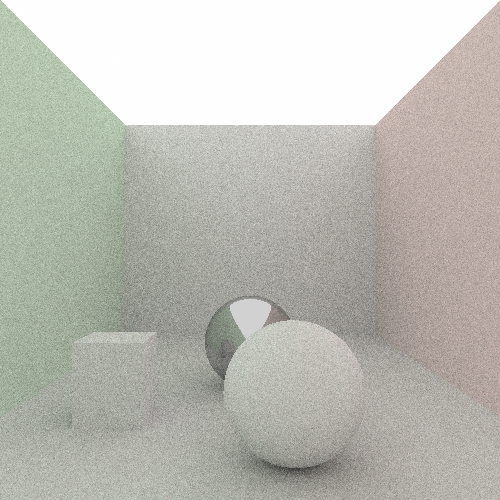
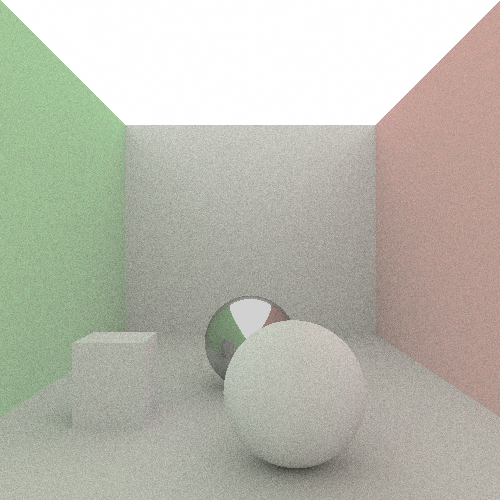
fix: Counteract whitebleeding of colors

diff --git a/material/diffuse.go b/material/diffuse.go
@@ -1,19 +1,20 @@
 package material
 
-import (
-	"github.com/wahtye/go-pathtracer/geometry"
-)
+import "github.com/wahtye/go-pathtracer/geometry"
 
 type DiffuseMaterial struct {
+	color       *geometry.Vector
 	reflectance float64
 }
 
-func NewDiffuseMaterial(reflectance float64) *DiffuseMaterial {
-	return &DiffuseMaterial{reflectance}
+func NewDiffuseMaterial(color *geometry.Vector, reflectance float64) *DiffuseMaterial {
+	return &DiffuseMaterial{color, reflectance}
 }
 
 func (mat *DiffuseMaterial) Reflect(ray *geometry.Ray, intersection *geometry.Intersection) *geometry.Ray {
 	hemisphereVector := geometry.NewHemisphereVector()
+	ray.AccumulatedColor = ray.AccumulatedColor.Add(mat.color.Sq())
+	ray.ColorBounces++
 	ray.Direction = hemisphereVector.RotateTowards(intersection.Normal)
 	ray.Origin = intersection.Point
 	ray.Intensity *= mat.reflectance * .96

diff --git a/main.go b/main.go
@@ -15,9 +15,9 @@ func main() {
 
 func buildScene(size float64) *render.Scene {
 	scene := render.NewScene()
-	diffuseMaterial := material.NewDiffuseMaterial(1.)
-	redColorMaterial := material.NewColorMaterial(geometry.NewVector(1., .2, .2), 1.)
-	greenColorMaterial := material.NewColorMaterial(geometry.NewVector(.2, 1., .2), 1.)
+	diffuseMaterial := material.NewDiffuseMaterial(geometry.NewVector(1., 1., 1.), 1.)
+	redColorMaterial := material.NewDiffuseMaterial(geometry.NewVector(1., 0., 0.), 1.)
+	greenColorMaterial := material.NewDiffuseMaterial(geometry.NewVector(0., 1., 0.), 1.)
 	emissiveMaterial := material.NewEmissiveMaterial(geometry.NewVector(1., 1., 1.), 1.)
 	reflectiveMaterial := material.NewReflectiveMaterial(.8, 1.)
 

diff --git a/geometry/ray.go b/geometry/ray.go
@@ -2,7 +2,8 @@ package geometry
 
 type Ray struct {
 	Bounces           uint8
-	Color             *Vector
+	AccumulatedColor  *Vector
+	ColorBounces      uint8
 	Origin, Direction *Vector
 	Intensity         float64
 }
@@ -11,7 +12,8 @@ func NewRay(origin, direction *Vector) *Ray {
 	normalizedDirection := direction.Normalize()
 	return &Ray{
 		0.,
-		NewVector(1., 1., 1.),
+		NewVector(0., 0., 0.),
+		0.,
 		origin,
 		normalizedDirection,
 		1.,
@@ -26,7 +28,8 @@ func NewZeroRay() *Ray {
 
 func (ray *Ray) Reset() *Ray {
 	ray.Bounces = 0.
-	ray.Color = NewVector(1., 1., 1.)
+	ray.ColorBounces = 0.
+	ray.AccumulatedColor = NewVector(0., 0., 0.)
 	ray.Intensity = 1.
 	return ray
 }

diff --git a/geometry/vector.go b/geometry/vector.go
@@ -41,6 +41,14 @@ func (vec *Vector) Subtract(vec2 *Vector) *Vector {
 	)
 }
 
+func (vec *Vector) Multiply(vec2 *Vector) *Vector {
+	return NewVector(
+		vec.X*vec2.X,
+		vec.Y*vec2.Y,
+		vec.Z*vec2.Z,
+	)
+}
+
 func (vec *Vector) MultiplyScalar(multiplier float64) *Vector {
 	return NewVector(
 		vec.X*multiplier,
@@ -54,6 +62,18 @@ func (vec *Vector) DivideScalar(divider float64) *Vector {
 		vec.X/divider,
 		vec.Y/divider,
 		vec.Z/divider,
+	)
+}
+
+func (vec *Vector) Sq() *Vector {
+	return vec.Multiply(vec)
+}
+
+func (vec *Vector) Sqrt() *Vector {
+	return NewVector(
+		math.Sqrt(vec.X),
+		math.Sqrt(vec.Y),
+		math.Sqrt(vec.Z),
 	)
 }
 

diff --git a/material/emissive.go b/material/emissive.go
@@ -14,7 +14,8 @@ func NewEmissiveMaterial(color *geometry.Vector, intensity float64) *EmissiveMat
 }
 
 func (mat *EmissiveMaterial) GetColor(ray *geometry.Ray) *geometry.Vector {
-	return BlendColors(ray.Color, mat.color)
+	accumulatedColor := ray.AccumulatedColor.Add(mat.color.Sq())
+	return accumulatedColor.DivideScalar(float64(ray.ColorBounces + 1)).Sqrt()
 }
 
 func (mat *EmissiveMaterial) GetIntensity(ray *geometry.Ray) float64 {
